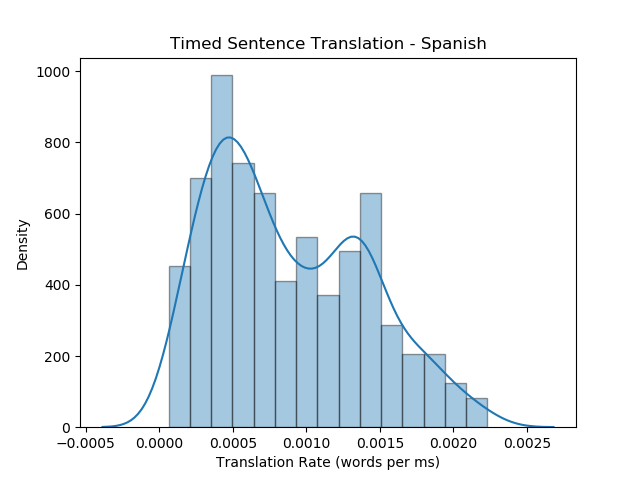
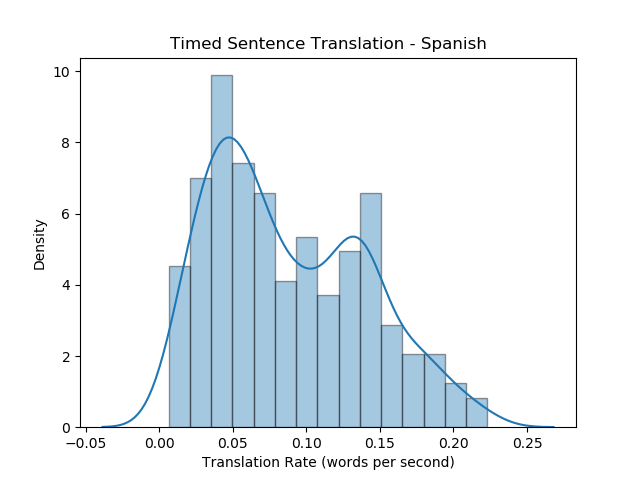
changing rate to words per second

diff --git a/experiments/ter_timed/ter_wordrate.py b/experiments/ter_timed/ter_wordrate.py
@@ -8,9 +8,11 @@ import torch
 lan = "es"
 # Load time taken to translate and calculate sentence length
 wpd = pd.read_csv("data/golden-standard/en-"+lan+".pe", sep='\t').drop_duplicates()
-wpd['words'] = 0
+
+words=[]
 for i in wpd.index:
-    wpd['words'][i] = len(wpd['Segment'][i].split())
+    words.append(len(wpd['Segment'][i].split()))
+wpd["words"] = words 
 
 # Filter empty sentences (with only serial number)
 time = wpd.loc[~wpd['Segment'].str.contains("^\s*\S*[0-9]\S*\s*$"), ['Time-to-edit', 'words']].reset_index(drop=True)
@@ -105,10 +107,10 @@ xlm_classification()
 
 """ kde plots """
 import seaborn as sns 
-sns.distplot(dfr['perms'], hist=True, kde=True, bins=15, hist_kws={'edgecolor': 'black'}, kde_kws={'bw': 0.00015})
+sns.distplot(dfr['perms']*100, hist=True, kde=True, bins=15, hist_kws={'edgecolor': 'black'}, kde_kws={'bw': 0.015})
 
 plt.ylabel("Density")
-plt.xlabel("Translation Rate (words per ms)")
+plt.xlabel("Translation Rate (words per second)")
 
 if lan == "es":
     plt.title("Timed Sentence Translation - Spanish")
